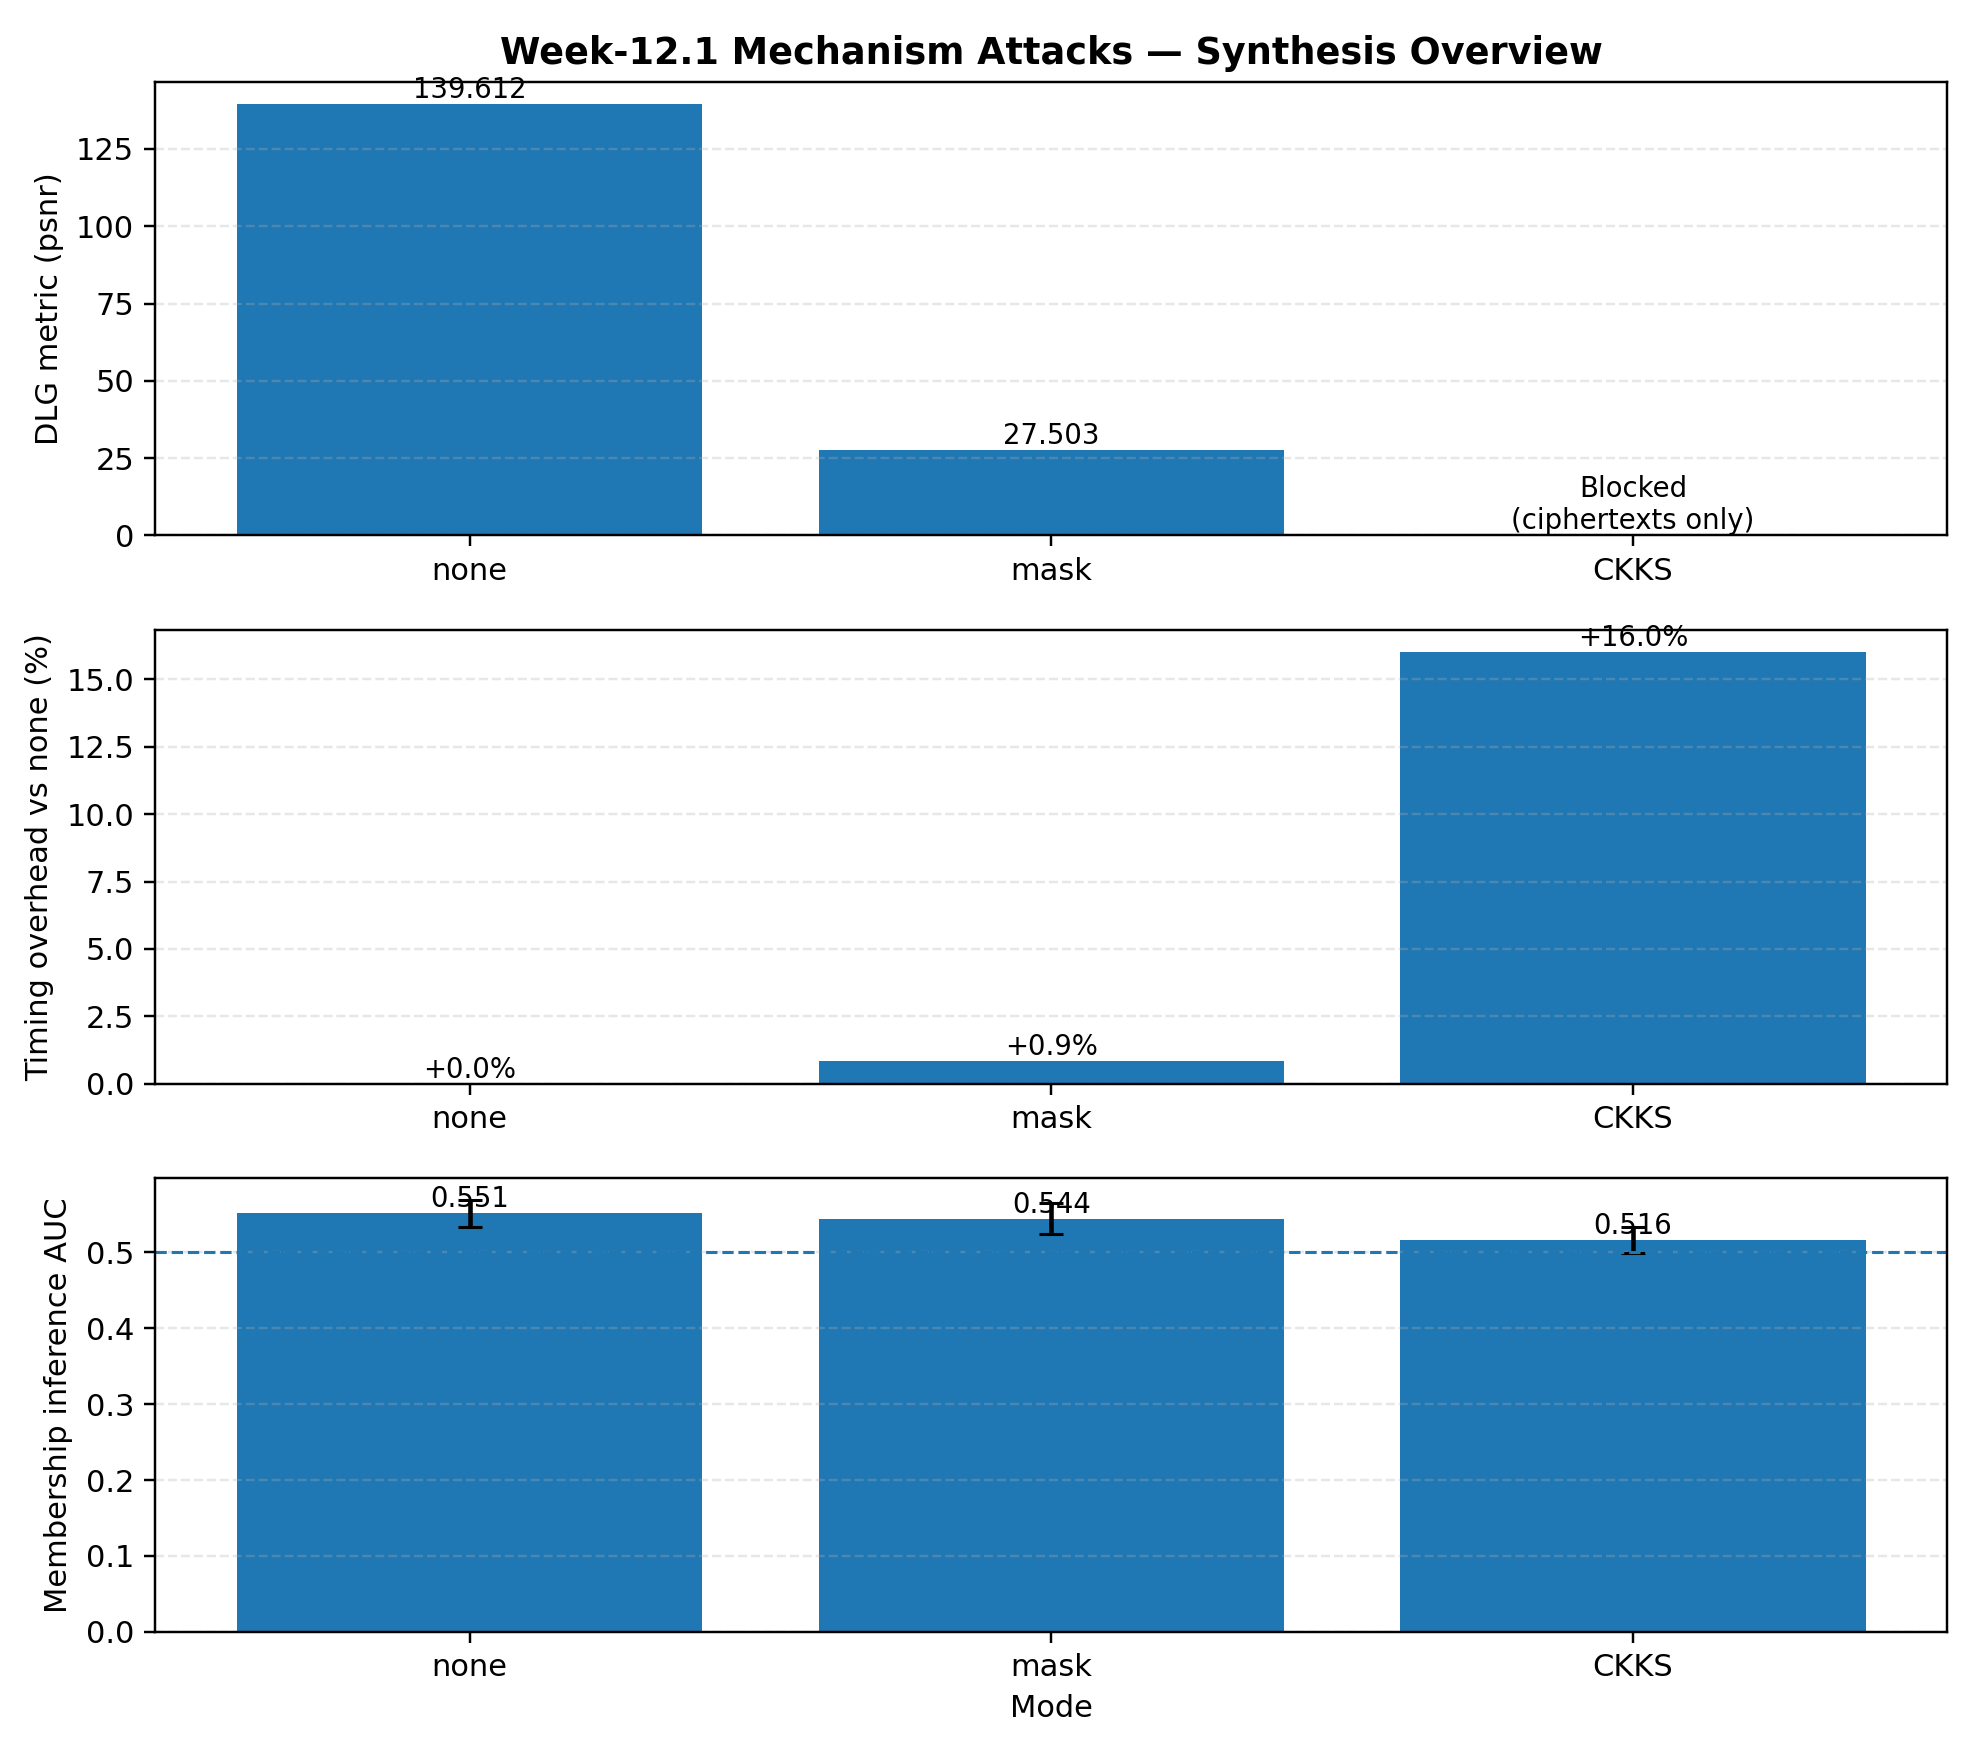
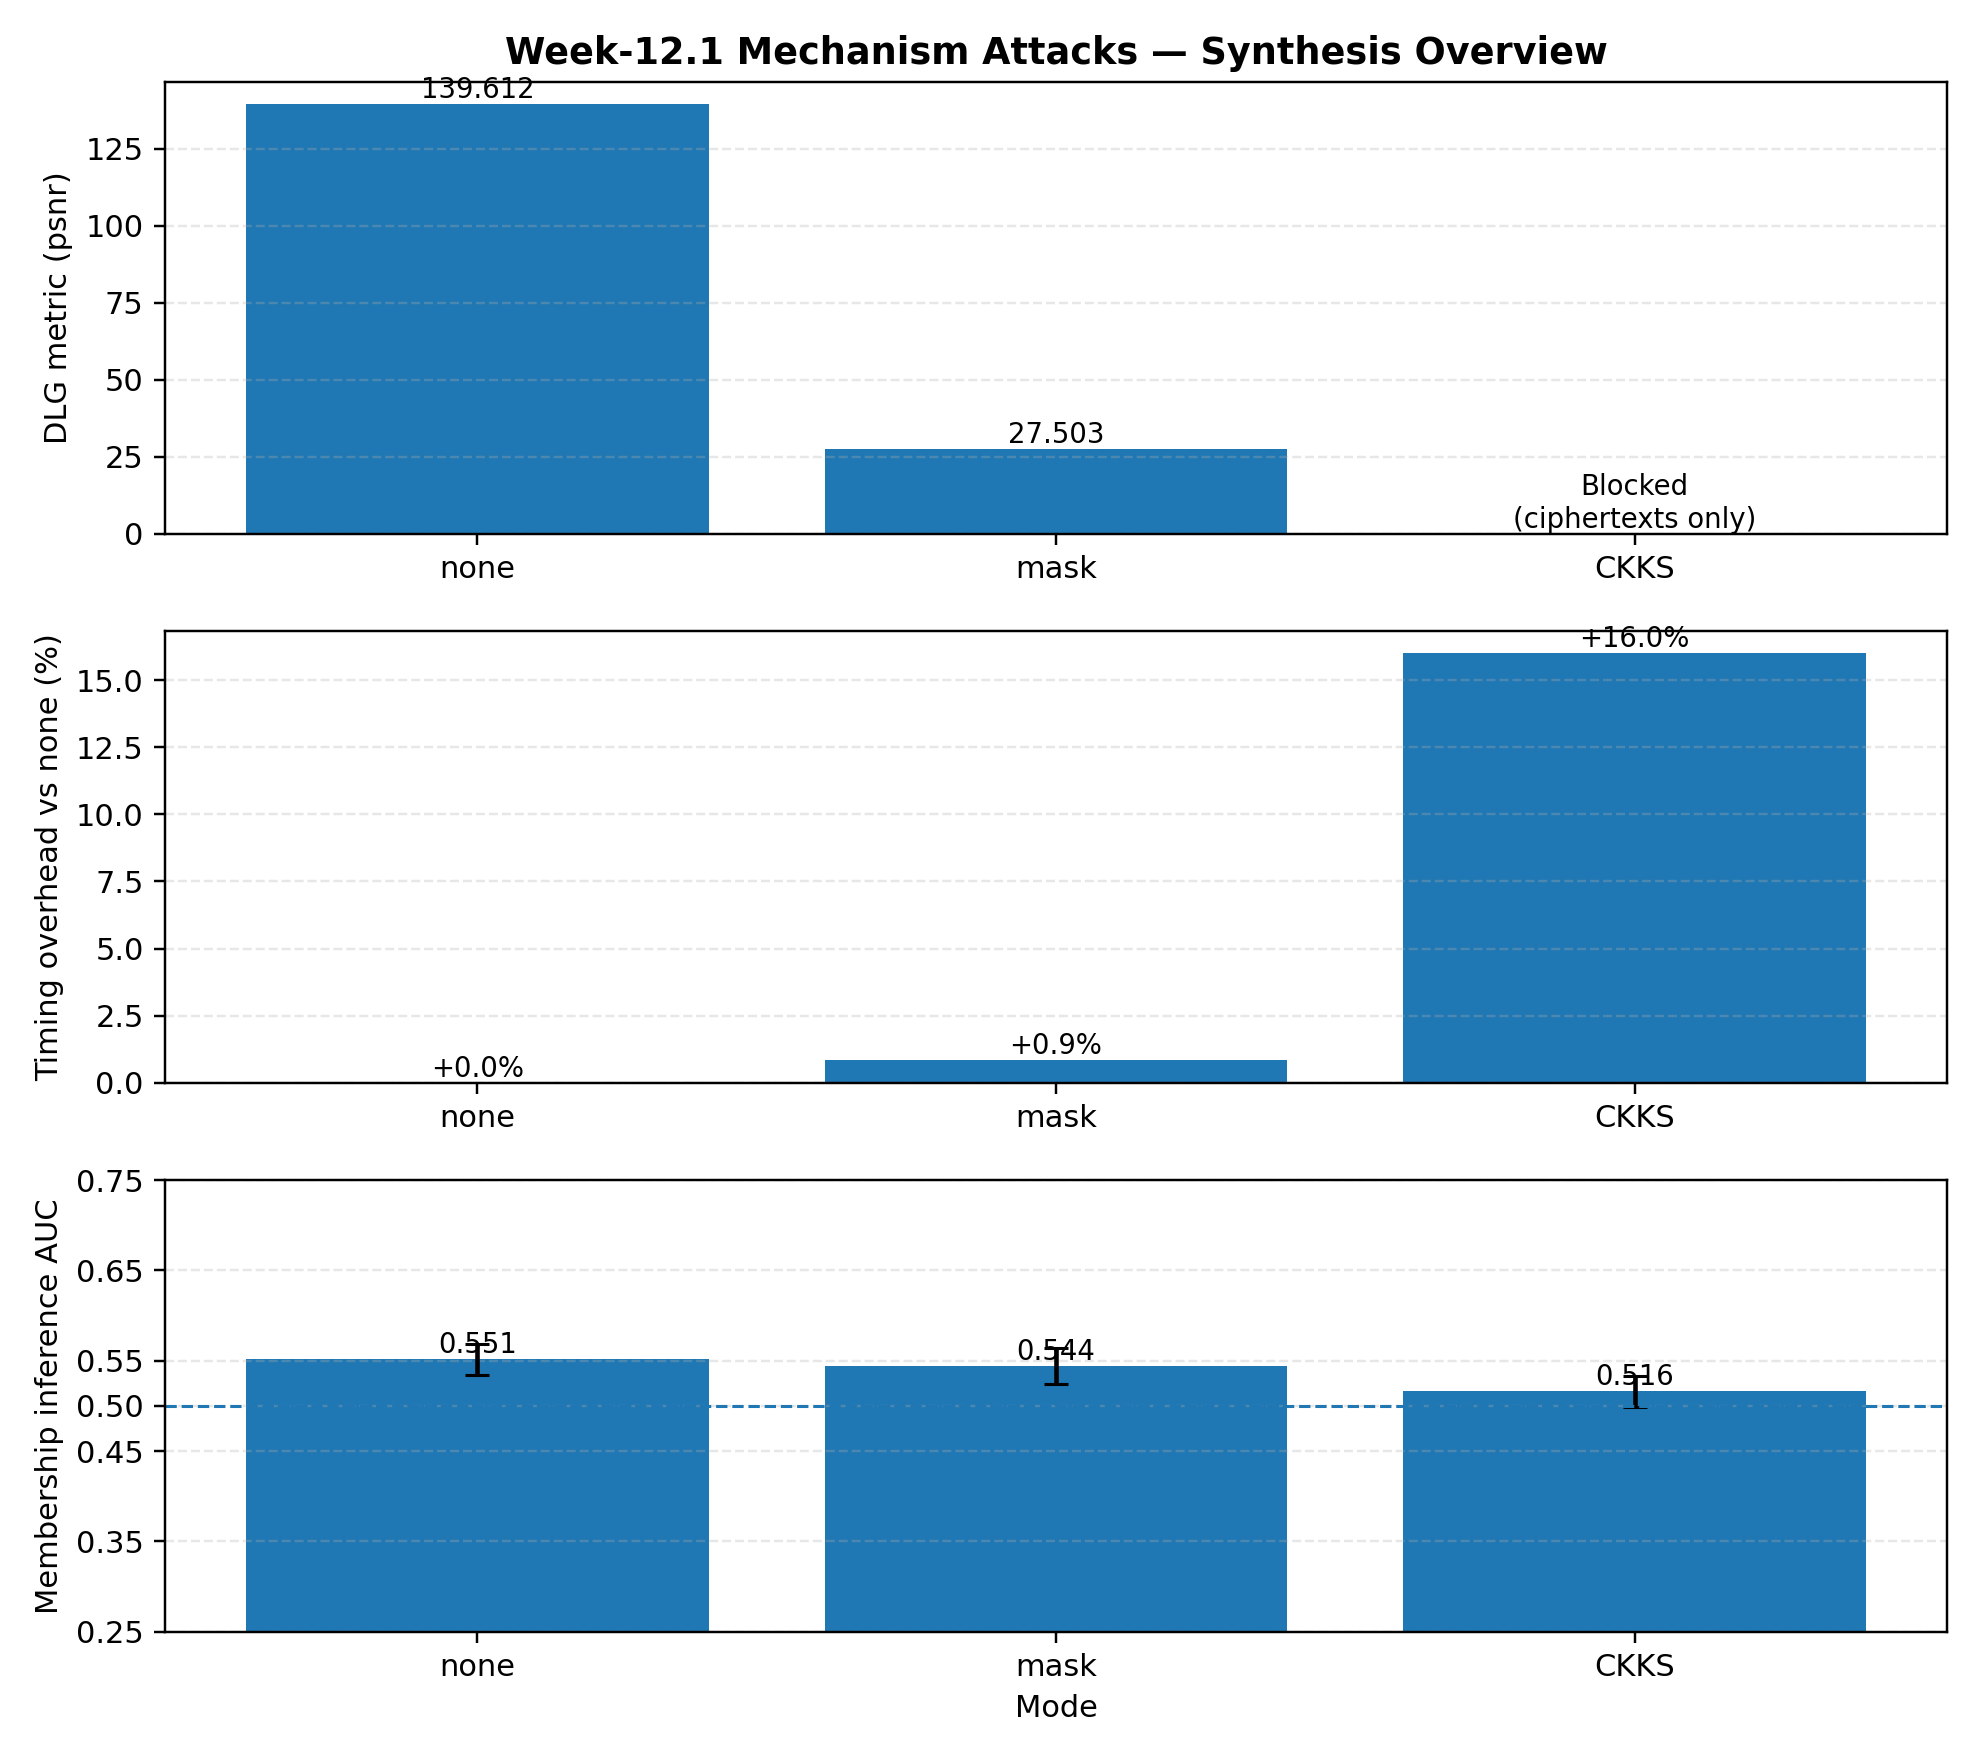
Week 12: update mechanism attack summary and CKKS final recommendation

diff --git a/experiments/run_week12_1_mechanism_attacks_summary.py b/experiments/run_week12_1_mechanism_attacks_summary.py
@@ -303,18 +303,33 @@ def plot_overview(summary: pd.DataFrame, out_path: Path) -> None:
     ax3 = plt.subplot(3, 1, 3)
     auc = summary["mia_auc"].values
     auc_std = summary["mia_auc_std"].values
-    ax3.bar(x, np.nan_to_num(auc, nan=0.0), yerr=np.nan_to_num(auc_std, nan=0.0), capsize=4)
-    ax3.axhline(0.5, linestyle="--", linewidth=1)
+
+    ax3.bar(
+        x,
+        np.nan_to_num(auc, nan=0.0),
+        yerr=np.nan_to_num(auc_std, nan=0.0),
+        capsize=4
+    )
+
+    # Random-guessing baseline
+    ax3.axhline(y=0.5, linestyle="--", linewidth=1)
+
     ax3.set_ylabel("Membership inference AUC")
     ax3.set_xlabel("Mode")
     ax3.set_xticks(x)
     ax3.set_xticklabels(summary["mode_display"].tolist())
 
+
+    ax3.set_ylim(0.25, 0.75)
+    ax3.set_yticks([0.25, 0.35, 0.45, 0.50, 0.55, 0.65, 0.75])
+
+    # Annotate bars
     for i, v in enumerate(auc):
         if np.isfinite(v):
             ax3.text(i, v, f"{v:.3f}", ha="center", va="bottom", fontsize=9)
 
     ax3.grid(axis="y", linestyle="--", alpha=0.3)
+
 
     fig.tight_layout()
     fig.savefig(out_path, dpi=220)
